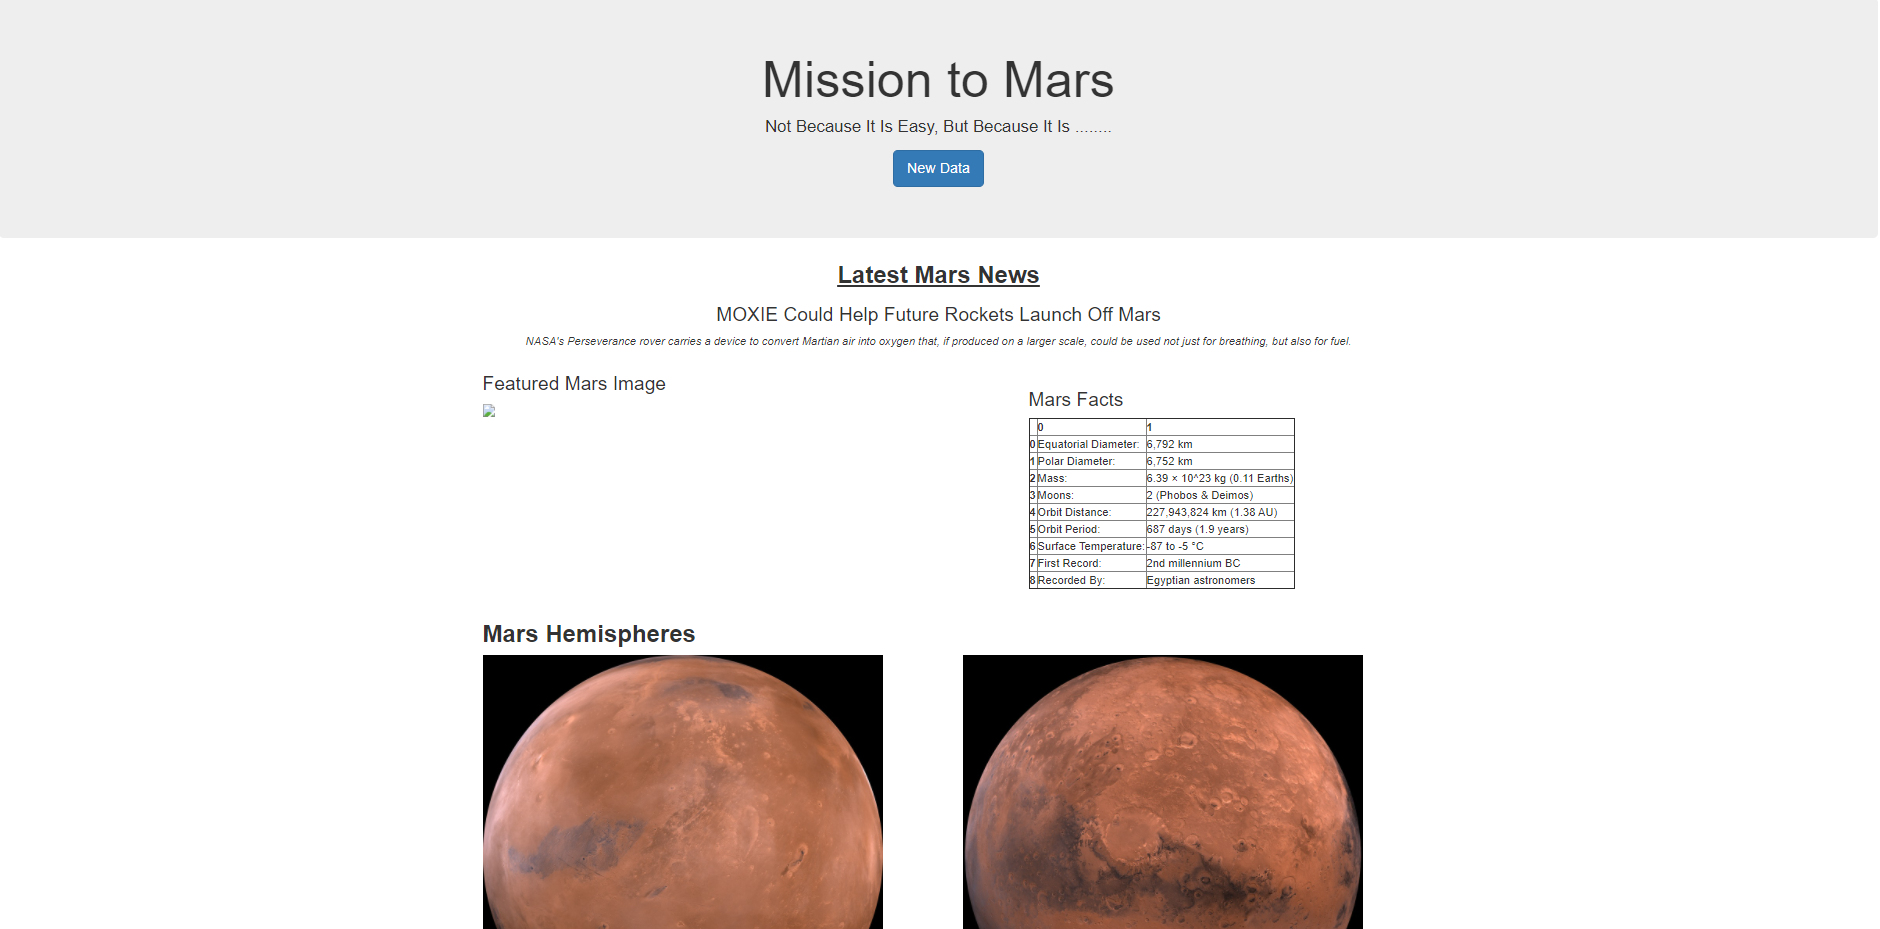
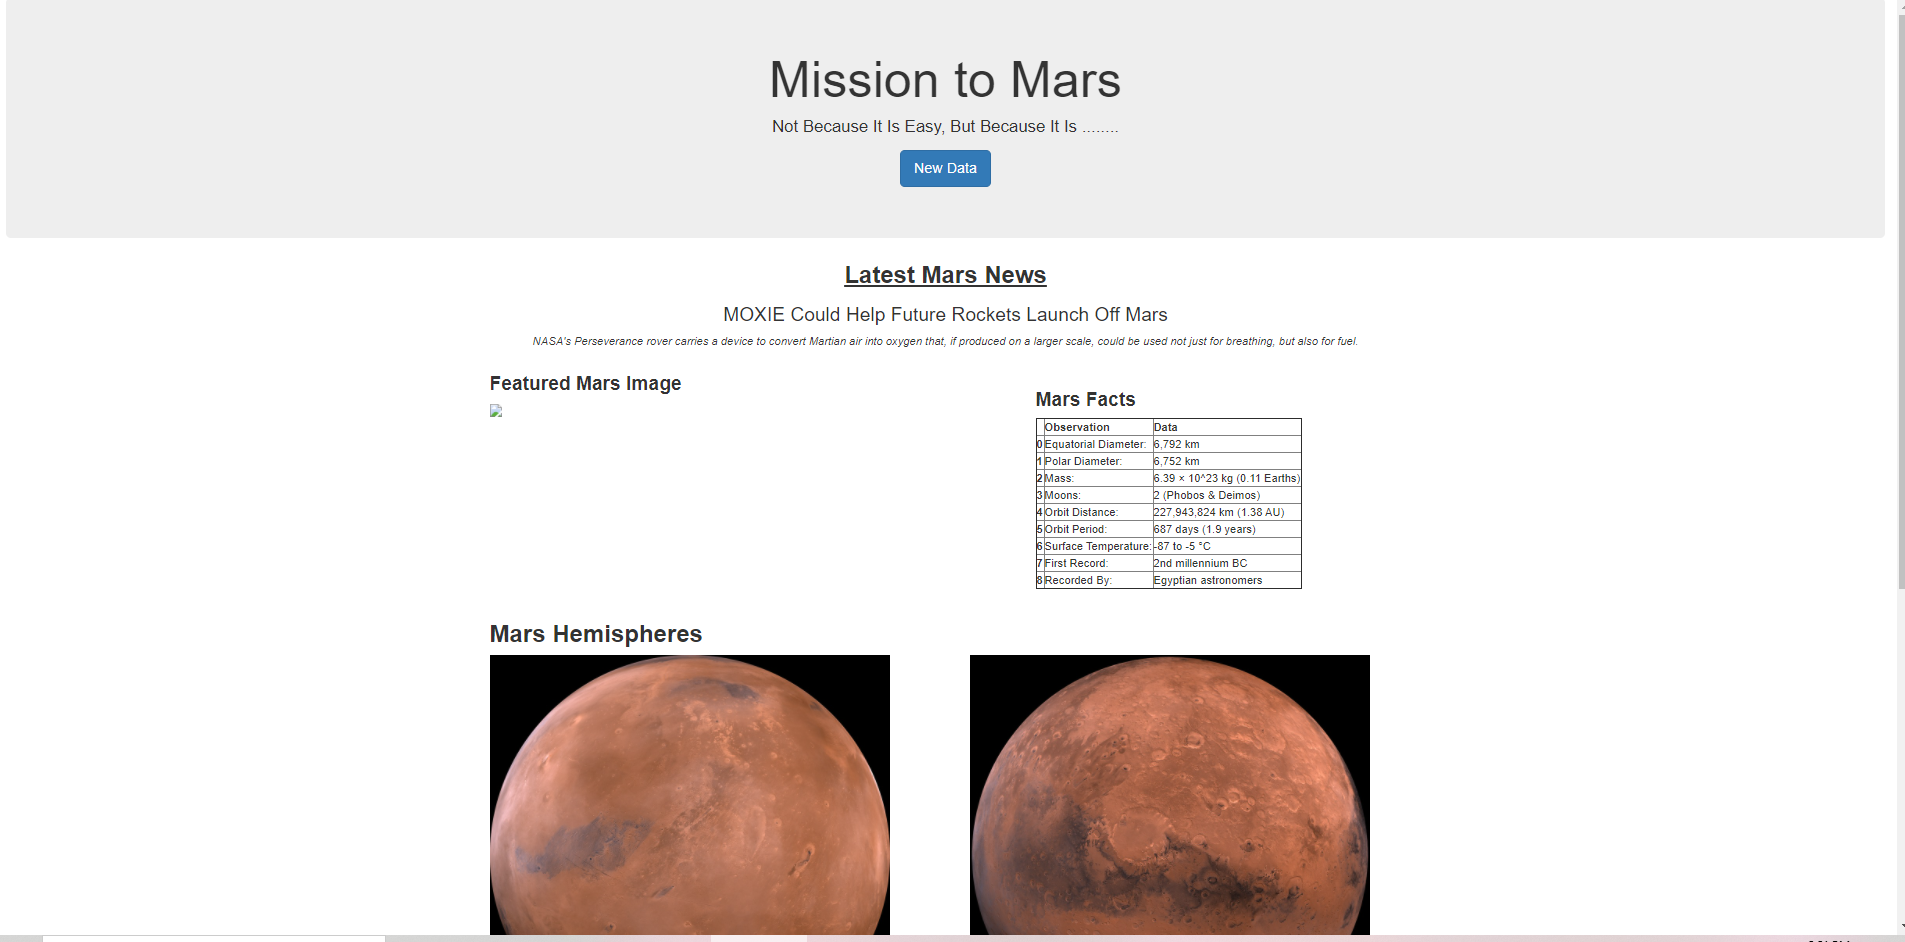
font changes

diff --git a/templates/index.html b/templates/index.html
@@ -29,16 +29,16 @@
         <div class="row">
             <div class="col-md-7">
                 <div class="box bg-style2">
-                    <h3>Featured Mars Image</h3>
+                    <h3><b>Featured Mars Image</b></h3>
                     
-                    <img src="{{mars_data_dic.featured_image_url}}"  width="500">
+                    <img src="{{mars_data_dic.featured_image_url}}"  width="500"/>
                 </div>
             </div>
             <br>
             
             <div class="col-md-5" id="weather-box">
                 <div class="text-white bg-style sty">
-                    <h3>Mars Facts</h3>
+                    <h3><b>Mars Facts</b></h3>
                 
                     {{mars_data_dic.mars_facts|safe}}
                 </div>
